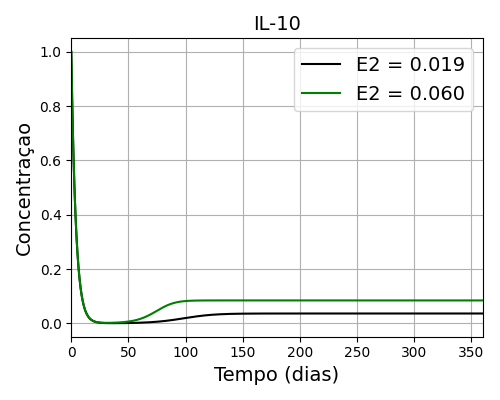
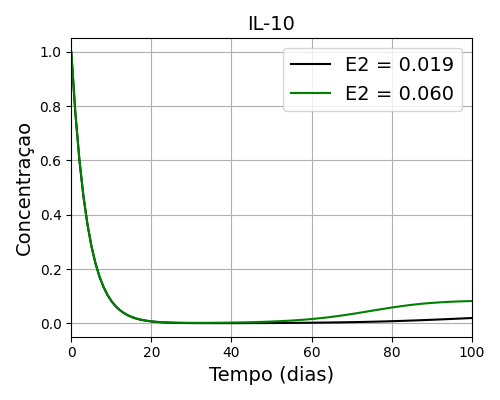
write files

diff --git a/src/post_processing.py b/src/post_processing.py
@@ -1,5 +1,6 @@
 
 import matplotlib.pyplot as plt
+import pandas as pd
 
 path = "C:/Users/anacl/OneDrive/Área de Trabalho/Bone-estradiol-model-main/Bone-estradiol-model-main/output/"
 #path = 'output/'
@@ -122,6 +123,18 @@ def plots_estradiol(t,days,ys, ys_min):
     ys19cart = ys_min[:,8]
     ys19c2 = ys_min[:,5]
 
+    d = {'tempo': t, 'osso': ys60osso}
+    df = pd.DataFrame(data=d)
+    # Write the DataFrame to a CSV file
+    df.to_csv('osso_valormax.csv', index=False)
+    print('Arquivo gerado') 
+    #fazer para 0,19
+    d2 = {'tempo': t, 'osso': ys19osso}
+    df2 = pd.DataFrame(data=d2)
+    print(df2)
+    # Write the DataFrame to a CSV file
+    df2.to_csv('osso_valormin.csv', index=False)
+    
     fig, ax = plt.subplots(figsize=(5, 4), tight_layout=True)
     ax.plot(t, ys19, 'k', t, ys60, 'g')
     #ax.xlim(0,days)

diff --git a/src/bone_estradiol.py b/src/bone_estradiol.py
@@ -118,9 +118,9 @@ def bonerepair(y,t, E2_max):
 # Simulated days
 def main():
   
-  days = 360
-  t = np.linspace(0, days, days*10)
-  print(days)
+  days = 100
+  t = np.linspace(0, days, days)
+  print(t)
 
   # condicoes iniciais
   D  = 5.0*10**5
@@ -142,7 +142,7 @@ def main():
 
   #D, Mo, M1, M2, C1, C2, Cm, Cb, Mc, Mb, E2
   # salva figuras
-  pp.plots(t,days,ys)
+  #pp.plots(t,days,ys)
 
   #Atualiza condicao inicial do E2 para rodar a segunda vez
   E2 = 0.019
